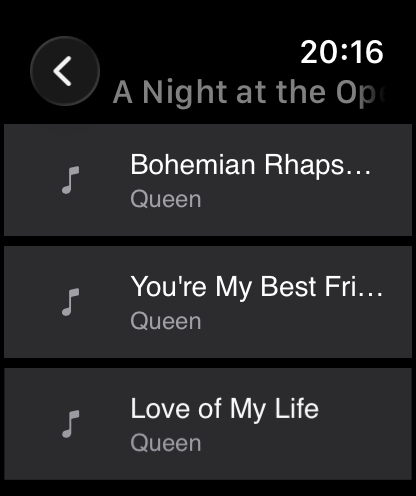
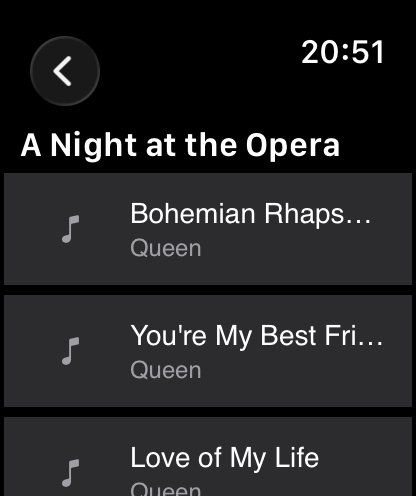
fix(ui): render WatchAlbumView title in body, not nav bar, on watchOS
watchOS marquees long navigationTitle text horizontally and animates it
under the system back chevron — Apple Music exhibits the same UX. For
"A Night at the Opera" the chevron overlapped the leading characters at
some marquee phases, which read poorly in the App Store screenshot.

Move the album name out of `.navigationTitle()` and render it as a
compact `.headline` Text at the top of body content with single-line
.tail truncation, plus the accessibility-header trait so VoiceOver
still announces it as the screen title. The system nav bar is now
chevron-only — no marquee, no overlap, full title statically visible.

Updates docs/screenshots/appstore-watch/02-album.png with the
re-captured render from the Apple Watch Series 11 (46mm) sim.

diff --git a/Packages/MiryamUI/Sources/MiryamUI/Views/WatchAlbumView.swift b/Packages/MiryamUI/Sources/MiryamUI/Views/WatchAlbumView.swift
@@ -12,66 +12,82 @@ public struct WatchAlbumView: View {
     }
 
     public var body: some View {
-        Group {
-            if viewModel.isLoading {
-                ProgressView()
-            } else if let error = viewModel.error {
-                VStack(spacing: 8) {
-                    Text(error.userMessage)
-                        .font(.miryam.bodySmall)
-                        .foregroundStyle(Color._miryamLabelSecondary)
-                        .multilineTextAlignment(.center)
-                    Button("Retry") {
-                        Task { await viewModel.loadSongs() }
+        VStack(alignment: .leading, spacing: 4) {
+            // Render album name as compact body content rather than via
+            // .navigationTitle(): on watchOS, long titles in the nav bar
+            // marquee horizontally and overlap the system back chevron at
+            // some marquee phases (Apple Music shows the same behavior).
+            // Putting the title in body keeps the chevron alone in the
+            // nav bar and the title statically truncated, which reads
+            // cleanly in App Store screenshots.
+            Text(viewModel.album.name)
+                .font(.headline)
+                .foregroundStyle(Color._miryamLabel)
+                .lineLimit(1)
+                .truncationMode(.tail)
+                .padding(.horizontal, 8)
+                .accessibilityAddTraits(.isHeader)
+
+            Group {
+                if viewModel.isLoading {
+                    ProgressView()
+                } else if let error = viewModel.error {
+                    VStack(spacing: 8) {
+                        Text(error.userMessage)
+                            .font(.miryam.bodySmall)
+                            .foregroundStyle(Color._miryamLabelSecondary)
+                            .multilineTextAlignment(.center)
+                        Button("Retry") {
+                            Task { await viewModel.loadSongs() }
+                        }
+                        .tint(Color._miryamAccent)
                     }
-                    .tint(Color._miryamAccent)
-                }
-            } else {
-                List(viewModel.songs) { song in
-                    Button {
-                        onPlaySong(song)
-                    } label: {
-                        HStack(spacing: 10) {
-                            AsyncImage(url: song.artworkURL(size: 80)) { phase in
-                                switch phase {
-                                case let .success(image):
-                                    image
-                                        .resizable()
-                                        .aspectRatio(contentMode: .fill)
-                                case .failure, .empty:
-                                    RoundedRectangle(cornerRadius: 6)
-                                        .fill(Color._miryamSurfaceSecondary)
-                                        .overlay(
-                                            Image(symbol: .musicNote)
-                                                .font(.caption2)
-                                                .foregroundStyle(Color._miryamLabelSecondary)
-                                        )
-                                @unknown default:
-                                    Color._miryamSurfaceSecondary
+                } else {
+                    List(viewModel.songs) { song in
+                        Button {
+                            onPlaySong(song)
+                        } label: {
+                            HStack(spacing: 10) {
+                                AsyncImage(url: song.artworkURL(size: 80)) { phase in
+                                    switch phase {
+                                    case let .success(image):
+                                        image
+                                            .resizable()
+                                            .aspectRatio(contentMode: .fill)
+                                    case .failure, .empty:
+                                        RoundedRectangle(cornerRadius: 6)
+                                            .fill(Color._miryamSurfaceSecondary)
+                                            .overlay(
+                                                Image(symbol: .musicNote)
+                                                    .font(.caption2)
+                                                    .foregroundStyle(Color._miryamLabelSecondary)
+                                            )
+                                    @unknown default:
+                                        Color._miryamSurfaceSecondary
+                                    }
+                                }
+                                .frame(width: 40, height: 40)
+                                .clipShape(RoundedRectangle(cornerRadius: 6))
+
+                                VStack(alignment: .leading, spacing: 2) {
+                                    Text(song.name)
+                                        .font(.miryam.bodySmall)
+                                        .foregroundStyle(Color._miryamLabel)
+                                        .lineLimit(1)
+
+                                    Text(song.artistName)
+                                        .font(.miryam.caption)
+                                        .foregroundStyle(Color._miryamLabelSecondary)
+                                        .lineLimit(1)
                                 }
                             }
-                            .frame(width: 40, height: 40)
-                            .clipShape(RoundedRectangle(cornerRadius: 6))
-
-                            VStack(alignment: .leading, spacing: 2) {
-                                Text(song.name)
-                                    .font(.miryam.bodySmall)
-                                    .foregroundStyle(Color._miryamLabel)
-                                    .lineLimit(1)
-
-                                Text(song.artistName)
-                                    .font(.miryam.caption)
-                                    .foregroundStyle(Color._miryamLabelSecondary)
-                                    .lineLimit(1)
-                            }
                         }
+                        .listRowBackground(Color._miryamSurfaceSecondary)
                     }
-                    .listRowBackground(Color._miryamSurfaceSecondary)
                 }
             }
         }
         .accessibilityIdentifier(AccessibilityID.albumView.rawValue)
-        .navigationTitle(viewModel.album.name)
         .task {
             await viewModel.loadSongs()
         }
